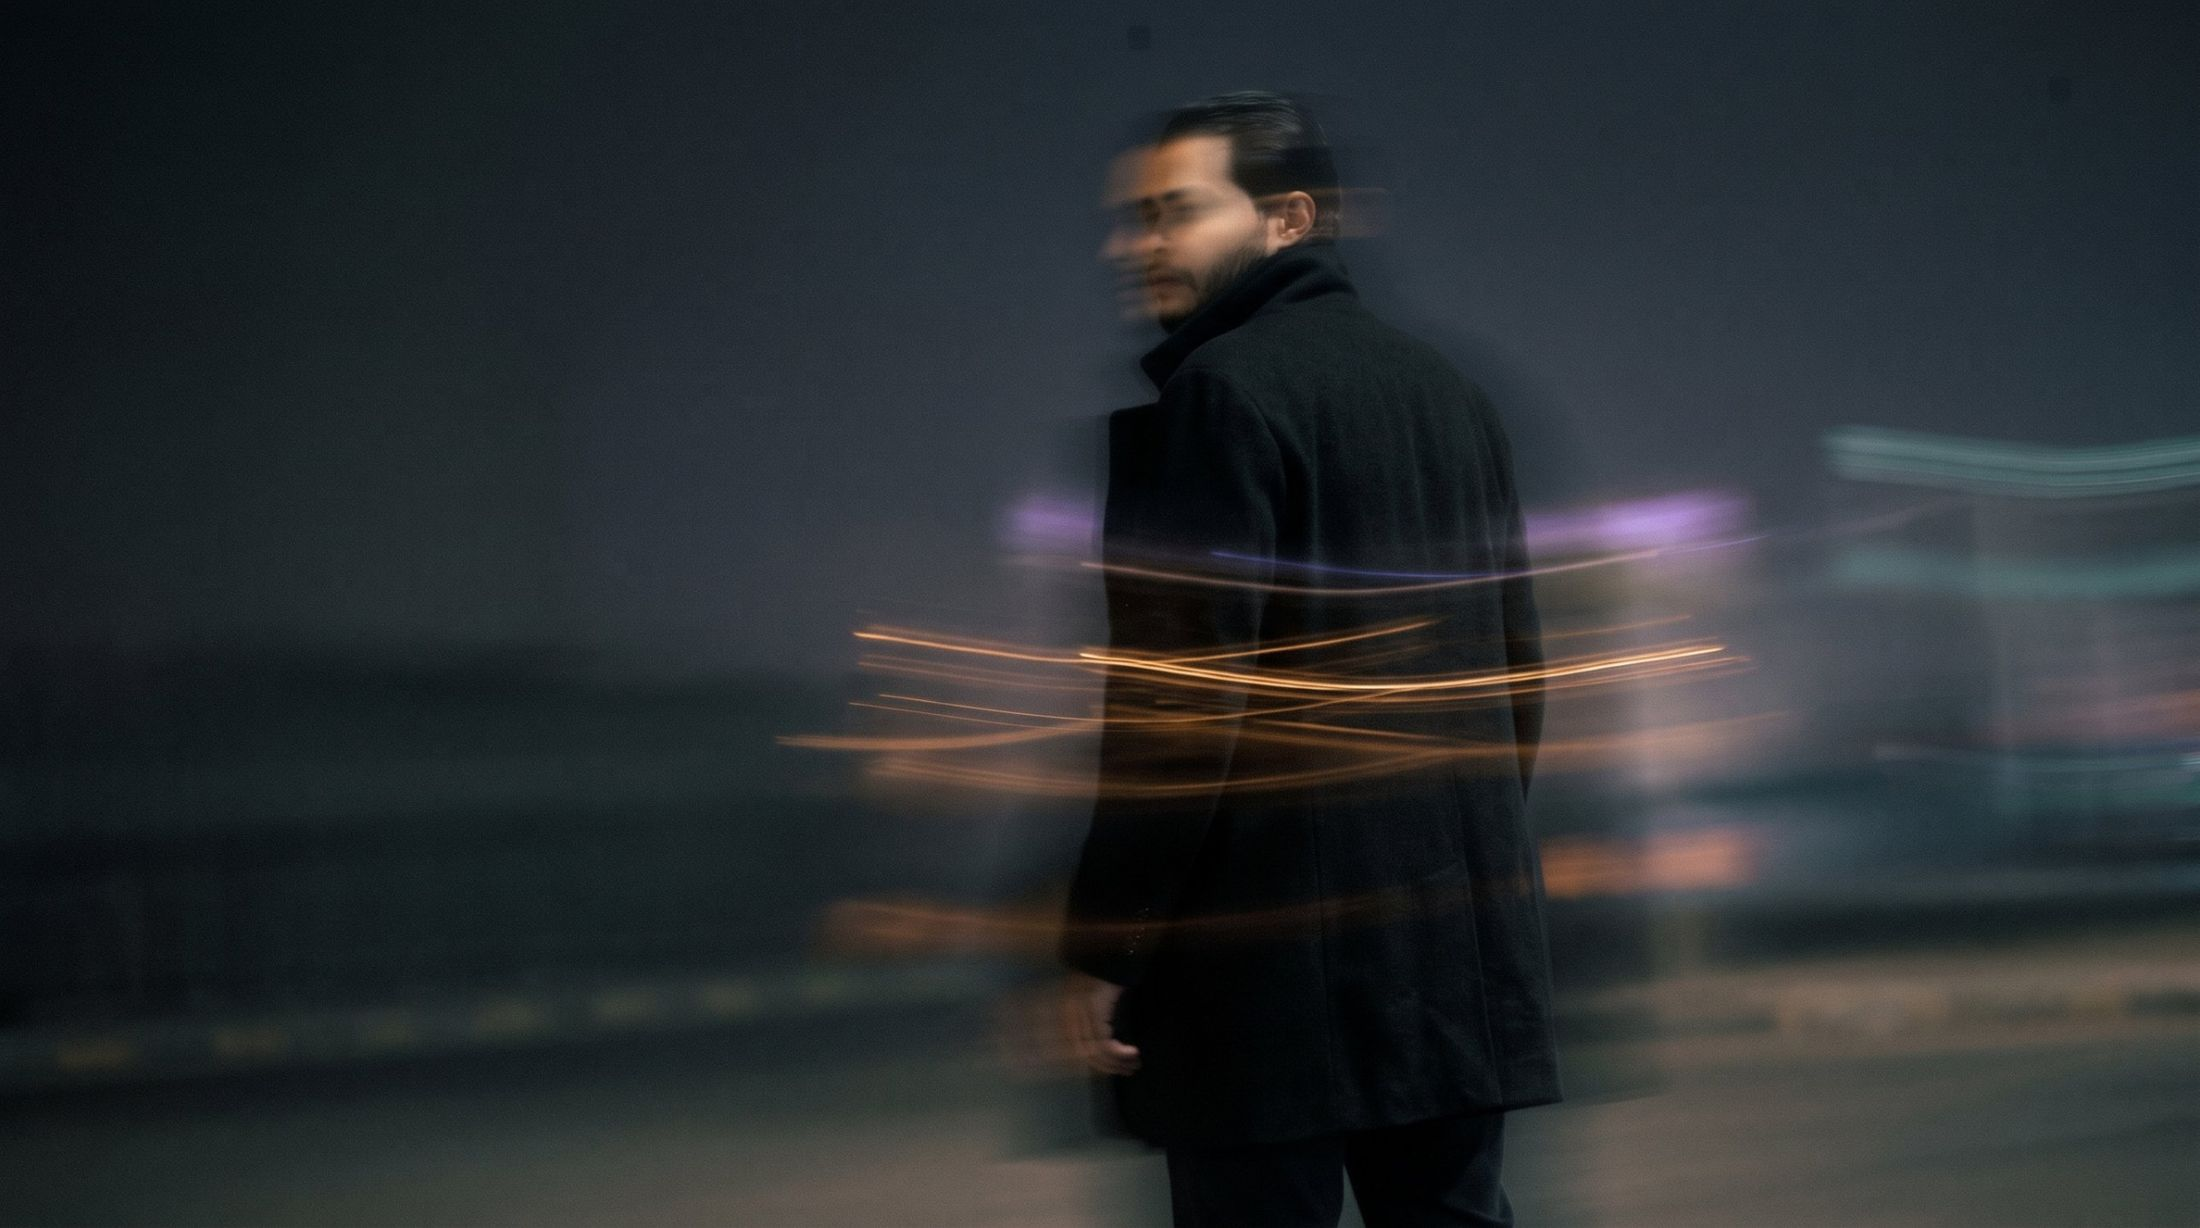
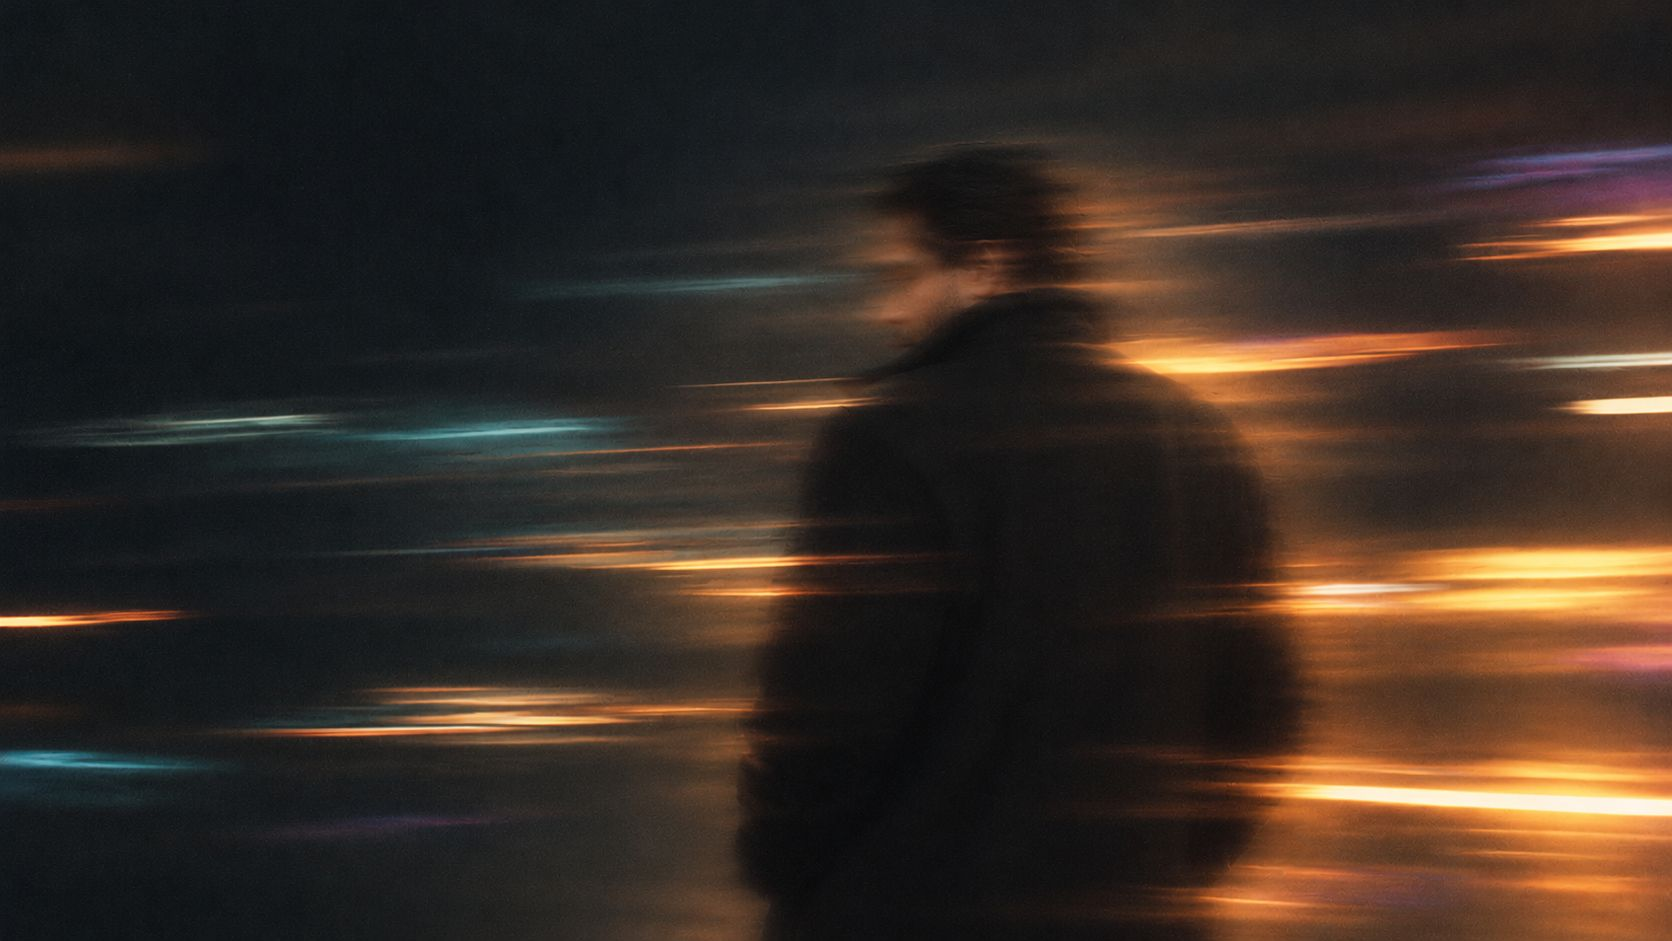
Swap hero and contact photos
Claude-Session: https://claude.ai/code/session_01HLHaTjUnhn3KbXrzcBMixU

diff --git a/index.html b/index.html
@@ -91,7 +91,7 @@ html.calm .lo-halo { display: block; position: absolute; left: 50%; top: 50%; wi
 /* ---------- dark panels ---------- */
 .panel { position: relative; margin: 10px; border-radius: 28px; overflow: hidden; background: var(--mask); color: var(--light); isolation: isolate; }
 .panel-bg { position: absolute; inset: 0; z-index: -1; }
-.panel-bg img { width: 100%; height: 100%; object-fit: cover; object-position: 62% 30%; }
+.panel-bg img { width: 100%; height: 100%; object-fit: cover; object-position: 58% 35%; }
 .panel-bg::after { content: ""; position: absolute; inset: 0; background: linear-gradient(90deg, rgba(5,7,8,.62) 0%, rgba(5,7,8,.18) 45%, rgba(5,7,8,0) 70%), linear-gradient(180deg, rgba(5,7,8,.1) 0%, rgba(5,7,8,0) 40%, rgba(5,7,8,.7) 100%); }
 
 /* hero */
@@ -162,7 +162,7 @@ section.block { padding-top: clamp(100px, 13vw, 170px); }
 
 /* ---------- contact ---------- */
 .contact { margin-top: clamp(100px, 13vw, 170px); padding: clamp(40px, 7vw, 96px) clamp(20px, 5vw, 72px); min-height: 560px; display: flex; flex-direction: column; justify-content: flex-end; gap: 30px; }
-.contact .panel-bg img { object-position: 55% 40%; }
+.contact .panel-bg img { object-position: 62% 25%; }
 .contact h2 { font-weight: 700; font-size: clamp(2.4rem, 6.8vw, 6.2rem); line-height: .92; letter-spacing: -.055em; max-width: 13ch; }
 .contact .sub { color: rgba(243, 244, 241, .8); max-width: 48ch; }
 .mail { display: flex; flex-wrap: wrap; align-items: center; gap: 12px; }
@@ -206,7 +206,7 @@ footer .wrap { display: flex; flex-wrap: wrap; justify-content: space-between; a
 
 <main id="top">
   <section class="panel hero" id="hero" aria-labelledby="hero-title">
-    <div class="panel-bg" aria-hidden="true"><img src="assets/photo/hero.jpg" alt="" width="2200" height="1228" fetchpriority="high"></div>
+    <div class="panel-bg" aria-hidden="true"><img src="assets/photo/hero.jpg" alt="" width="1672" height="941" fetchpriority="high"></div>
     <p class="status"><i aria-hidden="true"></i>Open to work in Cairo, Egypt</p>
       <h1 id="hero-title">
         <span><b style="--i:0">Ahmed Atef.</b></span>
@@ -311,7 +311,7 @@ footer .wrap { display: flex; flex-wrap: wrap; justify-content: space-between; a
   </section>
 
   <section class="panel contact" id="contact" aria-labelledby="contact-title">
-    <div class="panel-bg" aria-hidden="true"><img src="assets/photo/contact.jpg" alt="" loading="lazy" width="1672" height="941"></div>
+    <div class="panel-bg" aria-hidden="true"><img src="assets/photo/contact.jpg" alt="" loading="lazy" width="2200" height="1228"></div>
     <h2 id="contact-title">Have a board or a machine in mind?</h2>
     <p class="sub">I'm open to full-time roles and freelance hardware work. Tell me what you want to build.</p>
     <div class="mail"><code id="mail">ahmed.atef.tech@gmail.com</code><button class="btn btn-light" id="copy" type="button">Copy email</button></div>
